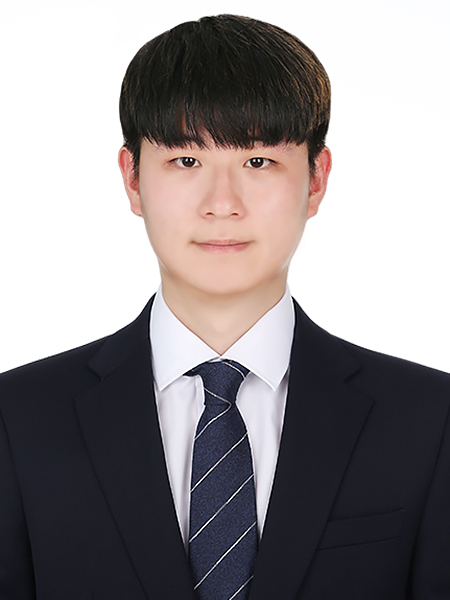
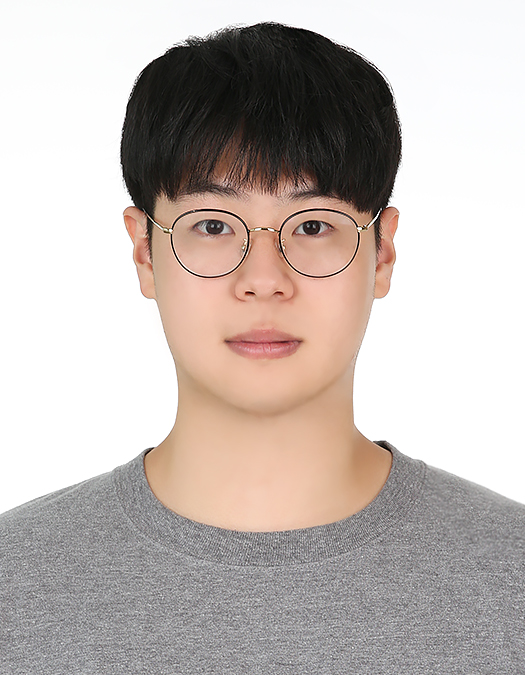
update 2020-08-27

diff --git a/index.html b/index.html
@@ -2,7 +2,7 @@
 <html lang="en">
   <head>
     <meta charset="UTF-8" />
-    <title>DevPark</title>
+    <title>PCH720</title>
 
     <!-- jQuery load -->
     <script
@@ -49,7 +49,7 @@
   <body>
     <div id="fullpage">
       <div id="mp" class="section">
-        <div id="name">열정으로 먹고사는<br />주니어개발자 박문수입니다</div>
+        <div id="name">꾸준함으로 승부하는<br />주니어개발자 박찬희입니다</div>
       </div>
       <div id="introduce" class="section">
         <div id="my-self" class="row">
@@ -57,26 +57,26 @@
             <div id="my_image">
               <img src="assets/img/face.jpg" />
             </div>
-            <a class="i_a" href="https://github.com/DevPrkms" target="_blank"
+            <a class="i_a" href="https://github.com/pch720" target="_blank"
               ><i class="icon fab fa-github"></i
             ></a>
-            <a class="i_a" href="https://www.instagram.com/m_oonoo_s/"
+            <a class="i_a" href="https://www.instagram.com/pch720/"
               ><i class="icon fab fa-instagram"></i
             ></a>
           </div>
           <div id="ms_contents" class="col-sm-6">
             <p id="profile">#Profile</p>
-            <p class="impactp">박문수 / Moonsoo Park</p>
-            <p><strong>birth :</strong> 1998.09.25 / 서울특별시</p>
-            <p><strong>Contact :</strong> 010-9536-7314 / DevPrkms@gmail.com</p>
+            <p class="impactp">박찬희 / Chanhee Park</p>
+            <p><strong>birth :</strong> 2000.07.20 / 경기도 구리시</p>
+            <p><strong>Contact :</strong> 010-9116-4131 / qkrcksgml56@naver.com</p>
             <p>
               <strong>Graduation :</strong> 2019.03 ~ : 한국폴리텍대학
               서울강서캠퍼스 재학
             </p>
             <hr />
             <p class="impactp">Who am I?</p>
-            <p><strong style="color: red;">열정</strong>빼면 시체!</p>
-            <p>한번 빠지면 아주 끝장을 보는 개발자!</p>
+            <p><strong style="color: red;">열정과 꾸준함</strong>빼면 시체!</p>
+            <p>열심히 끝없이 발전하는 개발자!</p>
           </div>
           <div id="tech">
             <img src="assets/img/js.png" />
@@ -93,9 +93,9 @@
         <span id="project_bottom">프로젝트 제목 클릭 시 코드로 이동</span>
         <div class="slide">
           <div class="portfolio">
-            <a target="_blank" href="https://github.com/DevPrkms/UrgentFire2019"
+            <a target="_blank" href="https://github.com/pch720/2020-Dogether"
               ><p class="project_name">
-                #서울시_공중화장실_위치정보_제공 #급한불
+                #협업_및_목표달성_커뮤니티_사이트 #Dogether
               </p></a
             >
             <object
@@ -104,26 +104,25 @@
               type="text/html"
               width="100%"
               height="315"
-              data="//www.youtube.com/embed/RJ3TslOBbrI"
+              data="//www.youtube.com/embed/mrNKC8Df4Ns"
               allowFullScreen
             ></object>
             <div class="row project_contents">
               <div class="col-sm-6">
                 <p class="ptitle">프로젝트 설명</p>
-                <span
-                  >"급한불"은 서울시 공중화장실 위치데이터를 사용하여 지도에
-                  나타내어 주는 사이트입니다.<br />또한, 공중화장실에 대한
-                  커뮤니티가 존재하며, 작성된 게시글은 오피니언 마이닝을 통해
-                  긍정과 부정반응으로 분류되어 나타내어 집니다.</span
-                >
+                <span>
+                  Dogether은 협업이 필요한 사람들에게 소통할 수 있는 게시판 및 채팅기능을 지원하고,
+                  서로의 일정을 함께 수정할 수 있는 캘린더 기능을 제공하므로써
+                  일의 진행도나 꾸준함을 확인할 수 있는 커뮤니티 사이트입니다.
+                </span>
               </div>
               <div class="col-sm-6">
                 <p class="ptitle">적용기술</p>
                 <p>
                   - 프레임워크 : Spring Framework<br />
-                  - 데이터베이스 : Oracle 11g<br />
-                  - 적용 공공데이터(OpenAPI) : 서울시 공중화장실 위치정보<br />
-                  - 기타 : Opinion Mining, Kakaomap API, Geolocation API
+                  - 클라우드 : AWS EC2<br />
+                  - 데이터베이스 : MYSQL, Redis<br />
+                  - 기타 : Ajax, Bootstrap, javascript(jQuery), Rserve(단어 빈도 수 분석), amChart(WordCloud)
                 </p>
               </div>
               <div class="dl_file">
@@ -145,9 +144,9 @@
           <div class="portfolio">
             <a
               target="_blank"
-              href="https://github.com/DevPrkms/my-portfolio-home"
+              href="https://github.com/pch720/2019-How-about-Camp-"
               ><p class="project_name">
-                #개인_포트폴리오_제작도우미 #My_Portfolio
+                #전국_캠핑장_위치정보_및_근처_편의시설정보_제공 #캠핑어때?
               </p></a
             >
             <object
@@ -156,25 +155,24 @@
               type="text/html"
               width="100%"
               height="315"
-              data="//www.youtube.com/embed/3nPScU7aBsM"
+              data="//www.youtube.com/embed/dMTl1KOwWGg"
               allowFullScreen
             ></object>
             <div class="row project_contents">
               <div class="col-sm-6">
                 <p class="ptitle">프로젝트 설명</p>
                 <span
-                  >“My Portfolio”는 개인 프로젝트(작업) 파일과 내용을 작성하고
-                  작성된 내용을 바탕으로 웹 포트폴리오를 제작해주는
-                  사이트입니다.</span
+                  >캠핑어때는 전국의 지역별 캠핑장과 근처의 편의시설의 정보를 제공하고
+                  게시판을 통해서 캠핑의 기초 지식이나 팁을 공유할 수 있는 사이트입니다.</span
                 >
               </div>
               <div class="col-sm-6">
                 <p class="ptitle">적용기술</p>
                 <p>
-                  - 프레임워크 : Spring Framework<br />- 데이터베이스 : MySQL,
-                  Redis<br />- 기타 :<br />- Rserve(단어 빈도 수 분석)<br />-
-                  jQuery(비동기 서버통신 - ajax)<br />- MultiPartFile(파일
-                  업로드 & 다운로드)<br />- amChart(워드 클라우드)
+                  - 프레임워크 : Spring Framework<br />
+                  - 데이터베이스 : Oracle<br />
+                  - 적용 공공데이터(OpenAPI) :  전국 야영(캠핑)장 표준데이터(공공데이터포털)<br />
+                  - 기타 : 카카오 맵 API, Summernote 에디터, jQuery(비동기 서버통신 - ajax)
                 </p>
               </div>
               <div class="dl_file">
@@ -192,33 +190,7 @@
             </div>
           </div>
         </div>
-        <div class="slide">
-          <div class="portfolio">
-            <a target="_blank" href="https://github.com/DevPrkms/React_Project"
-              ><p class="project_name">
-                #우리동네_소식_모아보기 #My_NewsPaper
-              </p></a
-            >
-            <div class="no-image">보완 개발중</div>
-            <div class="row project_contents">
-              <div class="col-sm-6">
-                <p class="ptitle">프로젝트 설명</p>
-                <p>
-                  네이버 뉴스를 크롤링하여 Geolocation API를 기반으로 현재
-                  지역의 뉴스만 보여주는 서비스입니다.
-                </p>
-              </div>
-              <div class="col-sm-6">
-                <p class="ptitle">적용기술</p>
-                <p>
-                  - 프레임워크 : Spring Boot(Gradle) & ReactJS<br />-
-                  데이터베이스 : MariaDB<br />- 기타 :<br />- Geolocation
-                  API(현재 위치 검색)
-                </p>
-              </div>
-            </div>
-          </div>
-        </div>
+
         <div class="slide">
           <div class="portfolio">
             <a target="_blank" href="https://github.com/DevPrkms/koin_app"
@@ -240,6 +212,28 @@
                   MongoDB<br />- 기타 :<br />- OpenBanking API(현재 위치
                   검색)<br />- BlockChain(예정)
                 </p>
+              </div>
+              <div class="dl_file">
+                <a id="no"
+                        href=""
+                        target="_blank"
+                ><span>화면설계서</span></a
+                >
+                <a id="no1"
+                        href=""
+                        target="_blank"
+                ><span>개발산출물</span></a
+                >
+                <script>
+                  document.getElementById('no').onclick = function () {
+                    alert("개발중입니다.")
+                    return false;
+                  }
+                  document.getElementById('no1').onclick = function () {
+                    alert("개발중입니다.")
+                    return false;
+                  }
+                </script>
               </div>
             </div>
           </div>

diff --git a/assets/index.css b/assets/index.css
@@ -12,7 +12,7 @@ body {
 
 /* 1페이지 */
 #mp {
-  background-color: #40407a;
+  background-color: #4a69bd;
   color: white;
   font-size: 4rem;
 }
@@ -52,7 +52,7 @@ body {
   max-width: 300px !important;
   max-height: 300px !important;
   border-radius: 50%;
-  border: 5px solid #40407a;
+  border: 5px solid #4a69bd;
   overflow: hidden;
   margin: 0 auto;
 }
@@ -91,7 +91,7 @@ body {
 }
 
 .impactp {
-  color: #40407a;
+  color: #4a69bd;
   font-size: 1.5rem;
 }
 
@@ -113,7 +113,7 @@ body {
 #portfolio {
   width: 100vw;
   height: 100vh;
-  background-color: #40407a;
+  background-color: #4a69bd;
 }
 
 .portfolio {
@@ -130,7 +130,7 @@ body {
 }
 
 .project_name {
-  color: #40407a !important;
+  color: #4a69bd !important;
   padding: 10px;
   font-size: 1.5rem;
 }
@@ -141,7 +141,7 @@ body {
 }
 
 .ptitle {
-  color: #40407a;
+  color: #4a69bd;
   font-size: 1.5rem;
 }
 
@@ -178,6 +178,6 @@ a:hover {
   width: 100px;
   padding: 10px;
   border-radius: 10px;
-  background-color: #40407a;
+  background-color: #4a69bd;
   color: white;
 }
